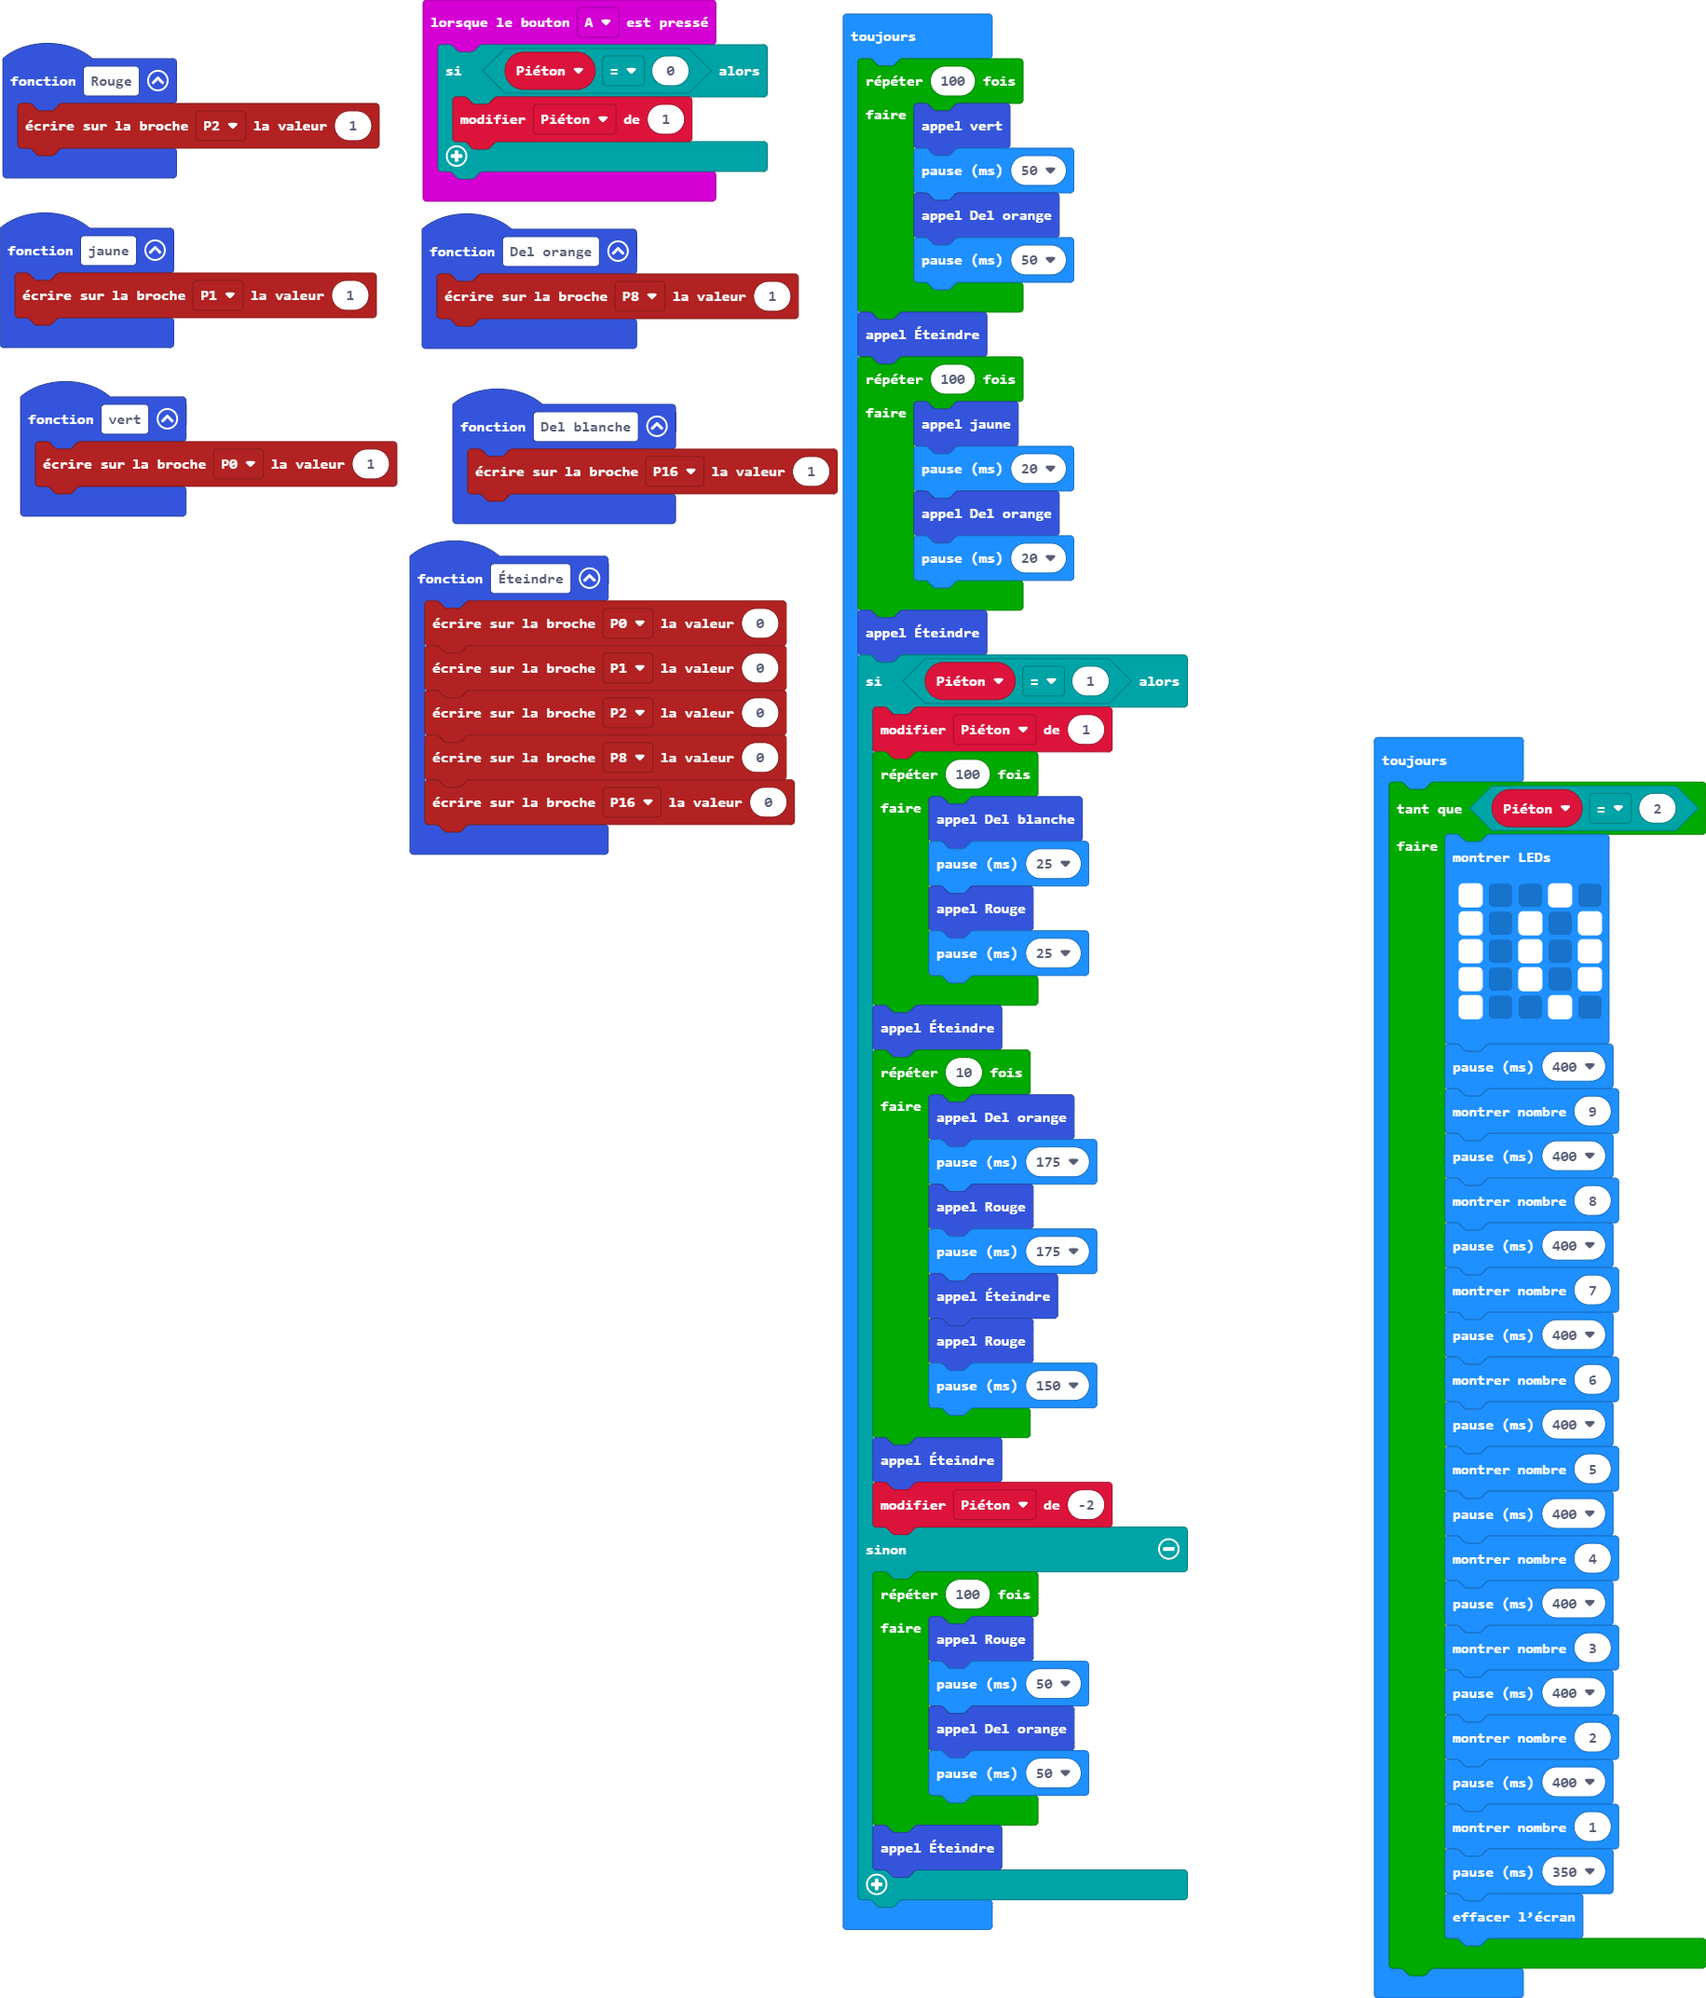
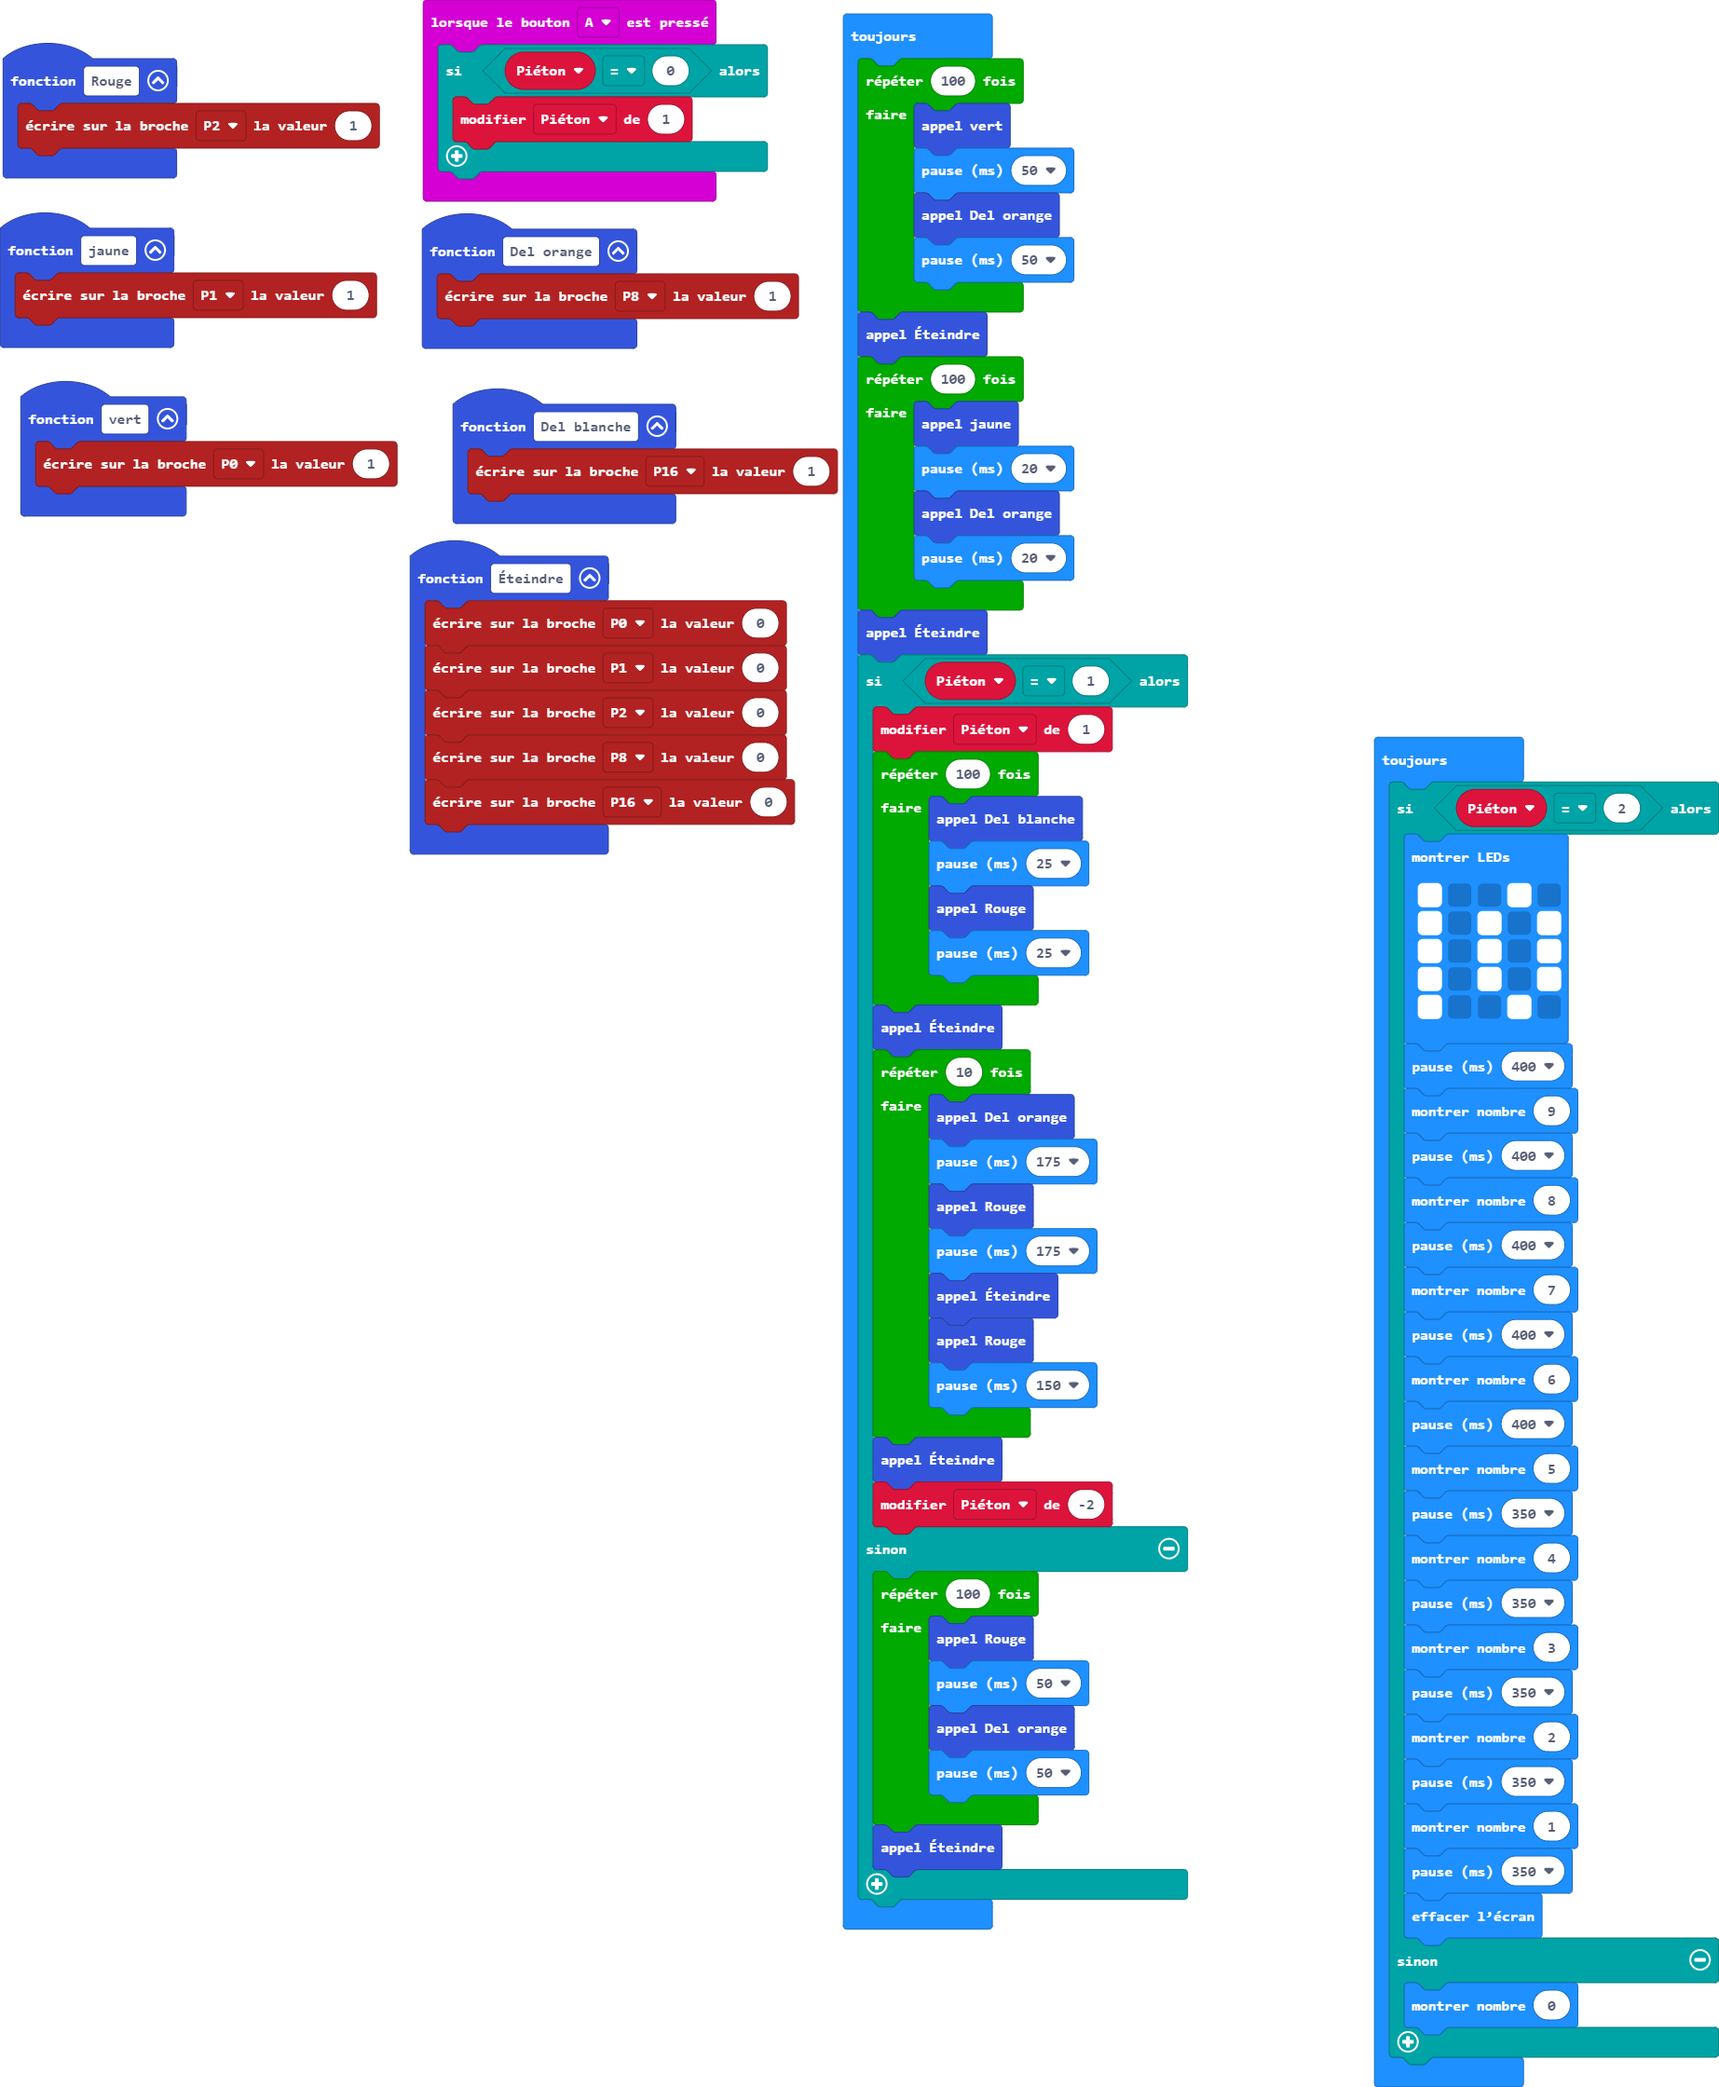
Mise à jour main.blocks, main.ts

Changed region(s): [[0.0, 0.0, 0.716, 0.9688], [0.7783, 0.3438, 1.0, 1.0]]

diff --git a/main.ts b/main.ts
@@ -72,7 +72,7 @@ basic.forever(function () {
     }
 })
 basic.forever(function () {
-    while (Piéton == 2) {
+    if (Piéton == 2) {
         basic.showLeds(`
             # . . # .
             # . # . #
@@ -90,15 +90,17 @@ basic.forever(function () {
         basic.showNumber(6)
         basic.pause(400)
         basic.showNumber(5)
-        basic.pause(400)
+        basic.pause(350)
         basic.showNumber(4)
-        basic.pause(400)
+        basic.pause(350)
         basic.showNumber(3)
-        basic.pause(400)
+        basic.pause(350)
         basic.showNumber(2)
-        basic.pause(400)
+        basic.pause(350)
         basic.showNumber(1)
         basic.pause(350)
         basic.clearScreen()
+    } else {
+        basic.showNumber(0)
     }
 })
